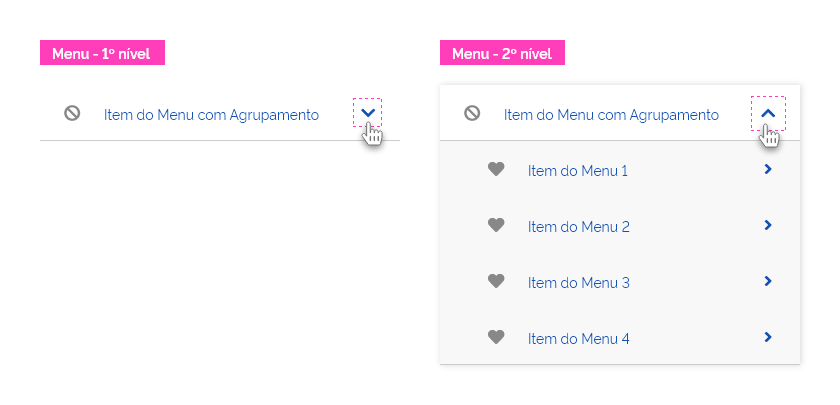
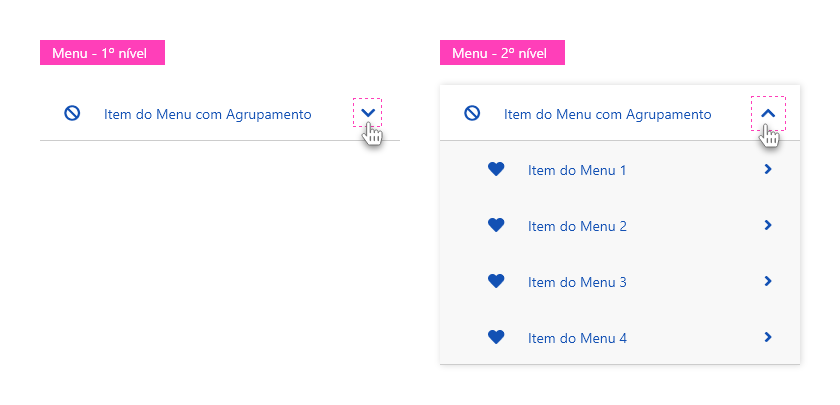
fix(menu): corrige cor do icone e imagens de exemplos na diretriz
Esse commit é um squash de:
* fix(menu): corrige cor do icone e imagens de exemplos na diretriz

corrige cor do icone e imagens de exemplos na diretriz do menu

fix #513

Foi feito pelo MR: govbr-ds/dev/govbr-ds-dev-core!92

diff --git a/docs/components/menu/menu-dsg.md b/docs/components/menu/menu-dsg.md
@@ -123,7 +123,7 @@ Os itens filhos devem ser apresentados em um painel separado.
 
 Veja mais detalhes em Comportamento > 2º nível.
 
-![Subníveis do Menu](imagens/menu-anatomy-item-types–5.png)
+![Subníveis do Menu](imagens/menu-behavior-second-level.png)
 *Subníveis do 2º nível do menu.*
 
 ### 10. Componente *divider* (Condicional)
@@ -410,7 +410,7 @@ O menu contextual pode estar localizado em qualquer área da página, mas lembre
 | -------------------- | ---------- | ---------------------- |
 | Background do item   | background | `--pure-0`             |
 | Cor do texto         | color      | `--blue-warm-vivid-70` |
-| Ícone representativo | color      | `--gray-40`            |
+| Ícone representativo | color      | `--blue-warm-vivid-70` |
 | Ícone ação           | color      | `--blue-warm-vivid-70` |
 
 #### Item 2º nível
@@ -421,7 +421,7 @@ O menu contextual pode estar localizado em qualquer área da página, mas lembre
 | Background do item em destaque | background | `--gray-2`             |
 | Cor do Texto                   | color      | `--blue-warm-vivid-70` |
 | Cor do Texto em destaque       | color      | `--blue-warm-vivid-80` |
-| Ícone representativo           | color      | `--gray-40`            |
+| Ícone representativo           | color      | `--blue-warm-vivid-70` |
 | Ícone ação                     | color      | `--blue-warm-vivid-70` |
 
 #### Rodapé do menu
